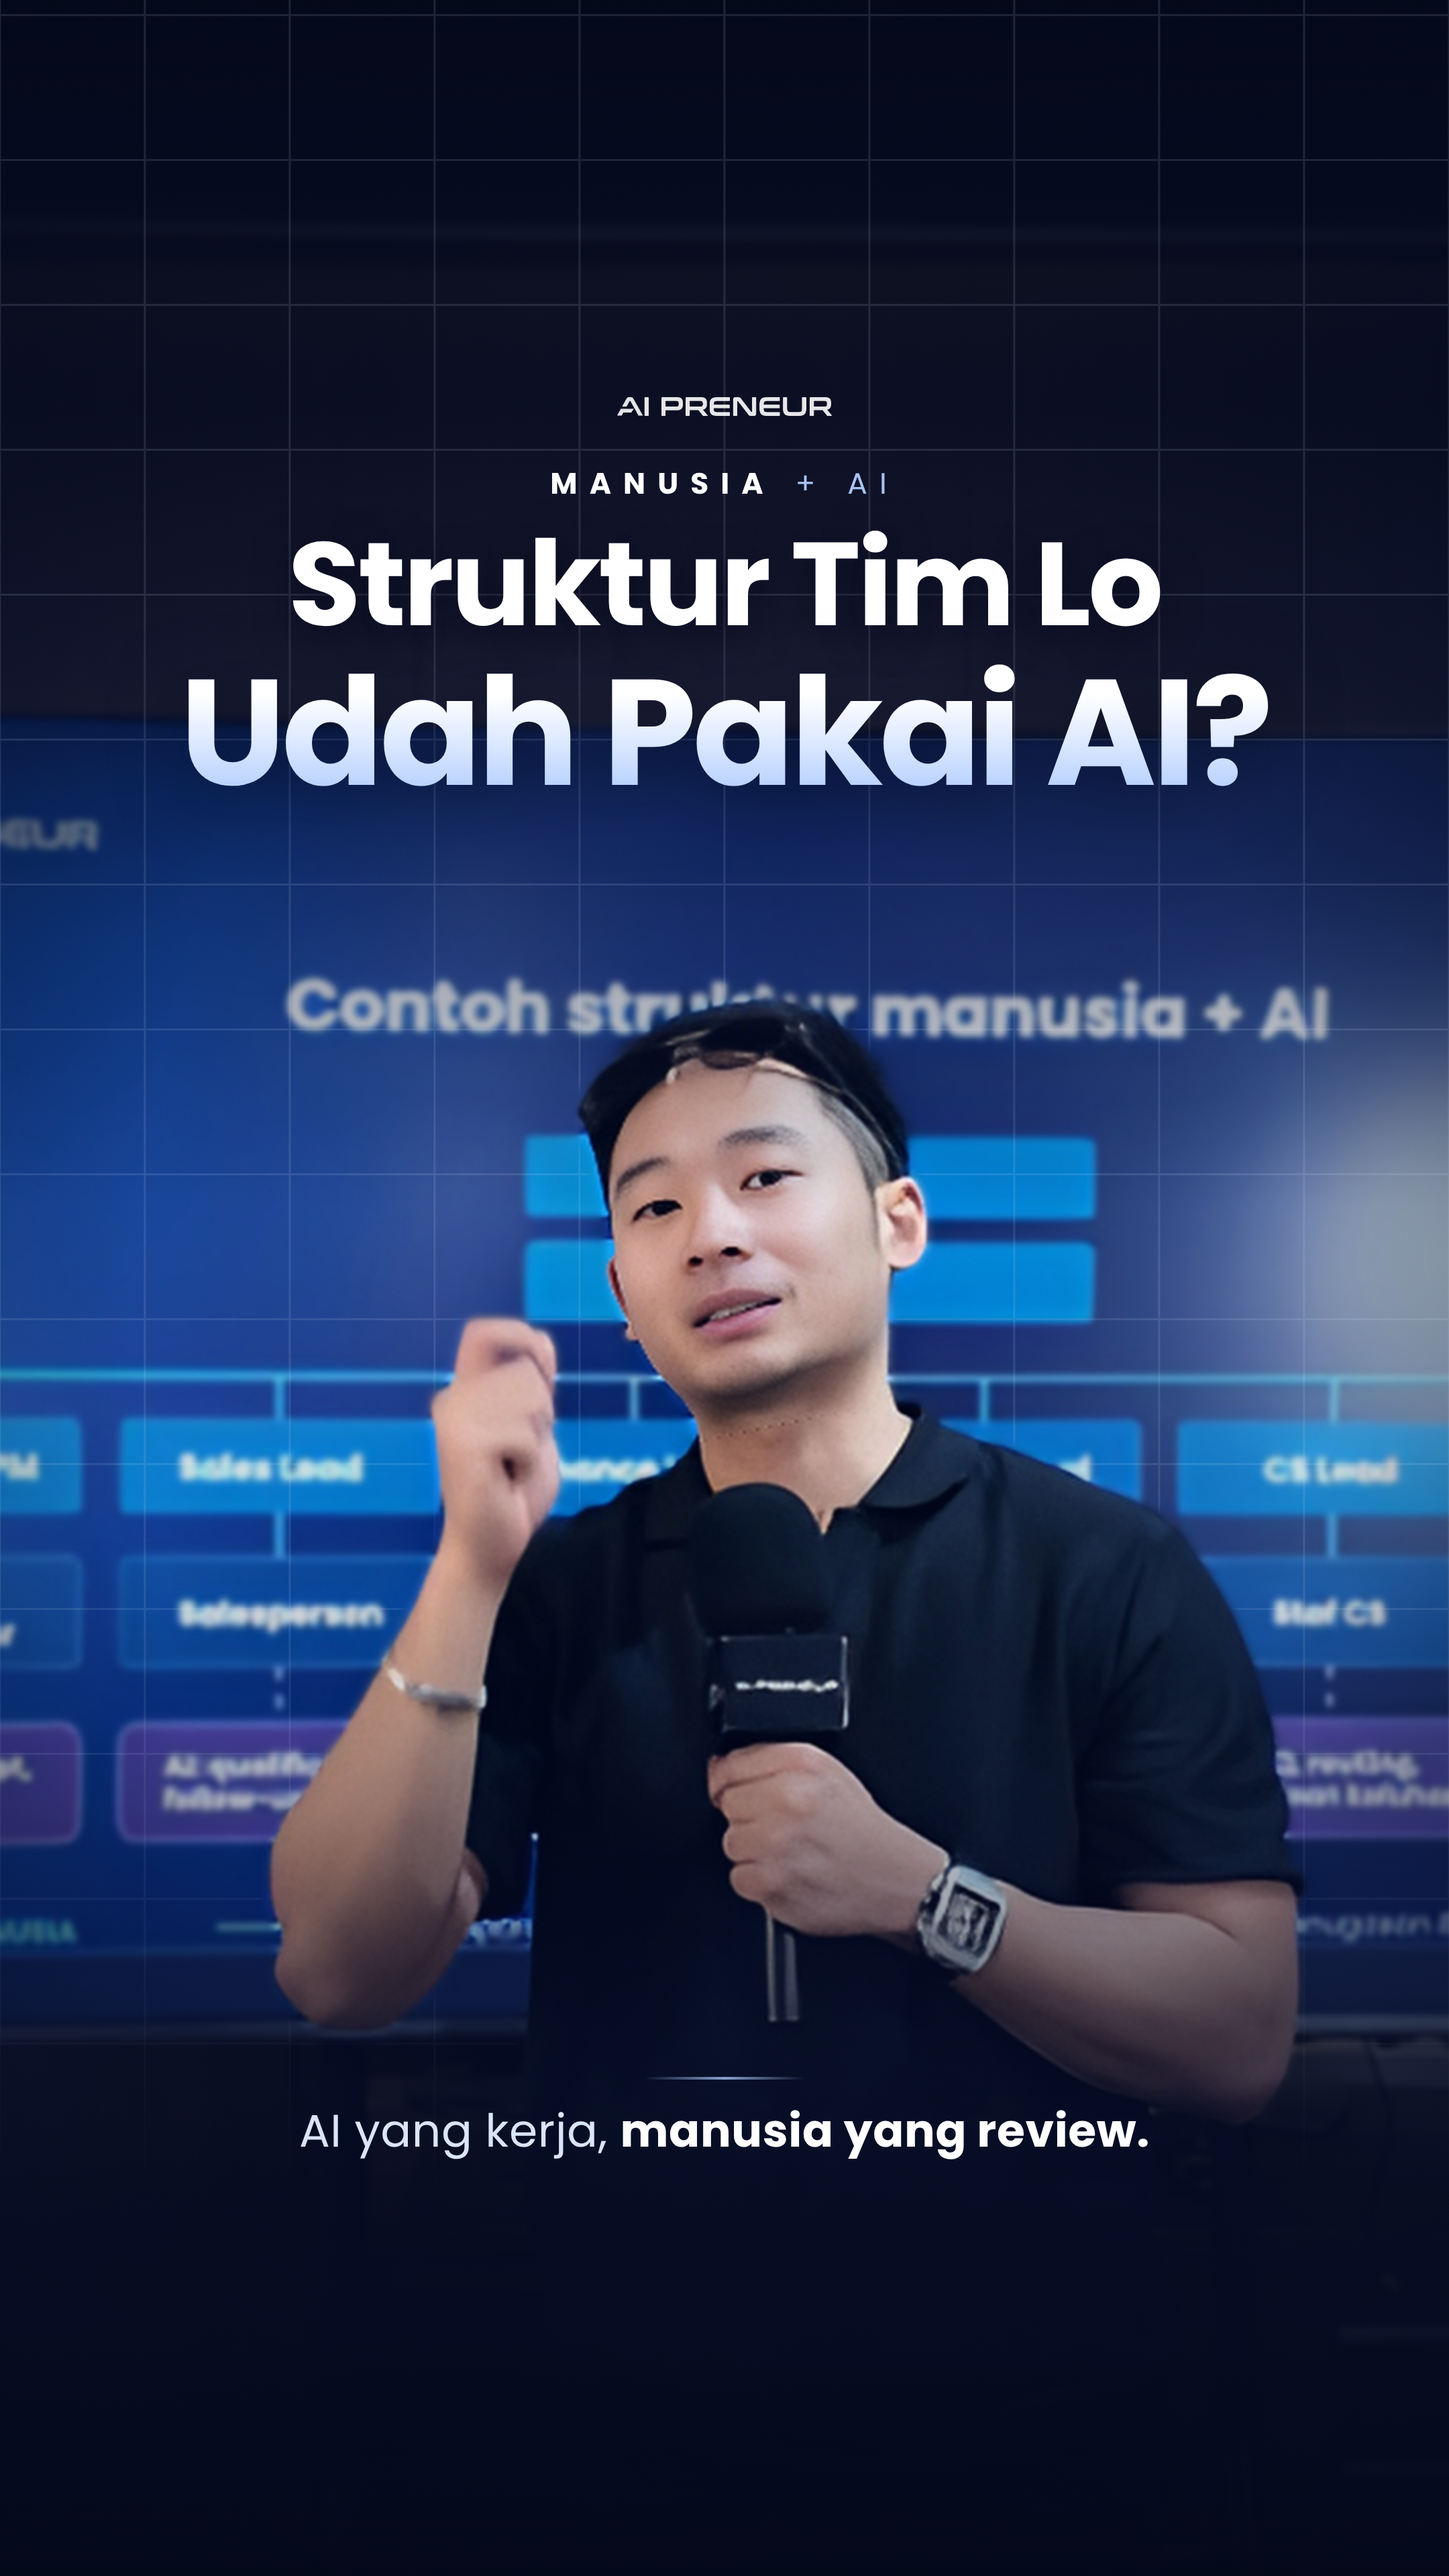
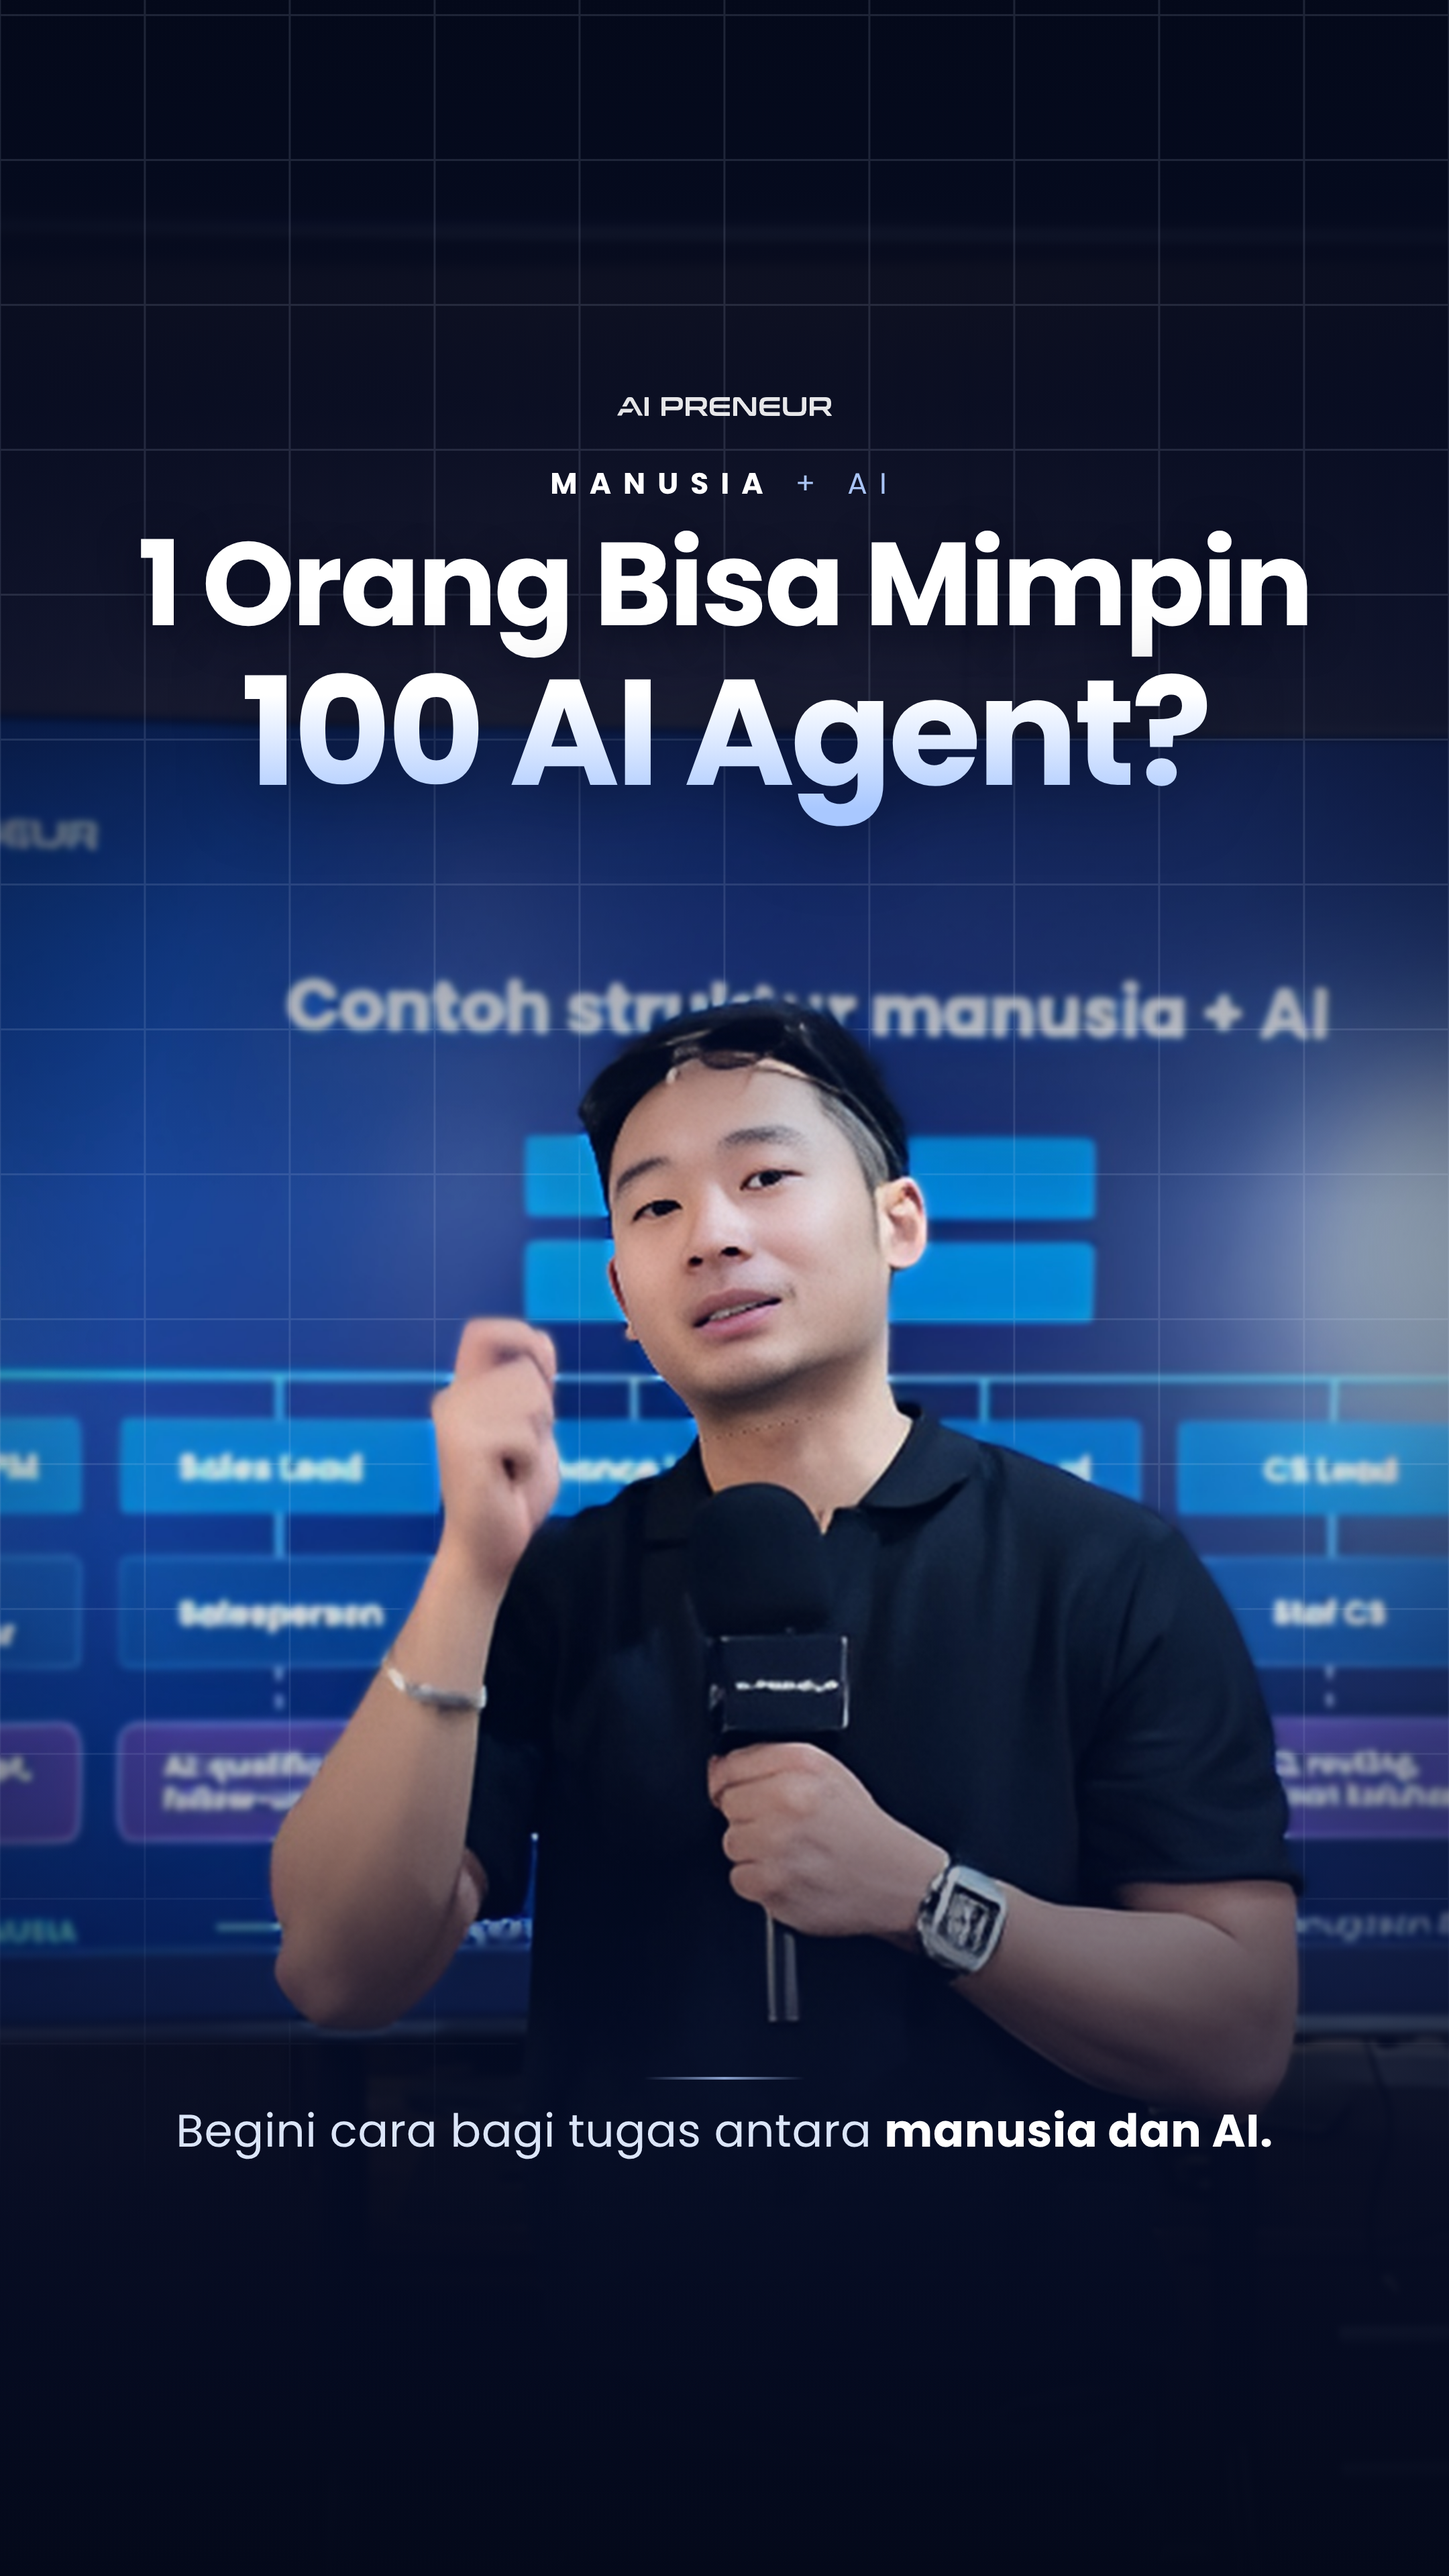
Thumbnail Struktur Manusia + AI: client's headline (1 Orang Bisa Mimpin 100 AI Agent?) + subheadline
Claude-Session: https://claude.ai/code/session_01FYKeHQKRYJvqWR6SYDVSQw

Changed region(s): [[0.0931, 0.1875, 0.8995, 0.3438], [0.1241, 0.8125, 0.8685, 0.8438]]

diff --git a/projects/struktur_thumb/thumbnail/cover.html b/projects/struktur_thumb/thumbnail/cover.html
@@ -49,10 +49,10 @@
   <div class="layer" id="grid"></div>
   <img class="t" id="logo" src="../assets/logo_white_trim.png" alt="AI PRENEUR" />
   <div class="ctr t" id="eyebrow"><b>MANUSIA</b>&nbsp;+ AI</div>
-  <div class="ctr t" id="h1">Struktur Tim Lo</div>
-  <div class="ctr t" id="h2">Udah Pakai AI?</div>
+  <div class="ctr t" id="h1">1 Orang Bisa Mimpin</div>
+  <div class="ctr t" id="h2">100 AI Agent?</div>
   <div class="t" id="rule"></div>
-  <div class="ctr t" id="tag">AI yang kerja, <b>manusia yang review.</b></div>
+  <div class="ctr t" id="tag">Begini cara bagi tugas antara <b>manusia dan AI.</b></div>
 </div>
 <script>
   const q = new URLSearchParams(location.search);
